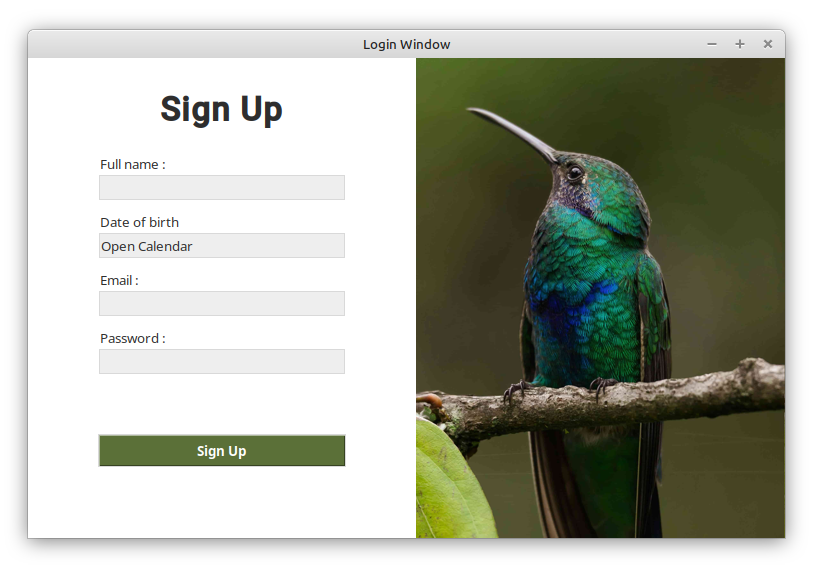
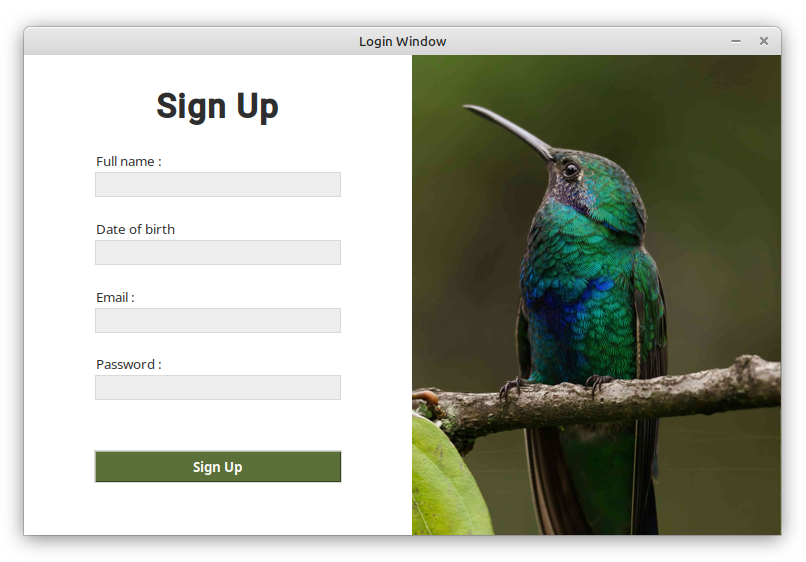
- Added a CSV file of user data for the registration system. - Updated the prev1.png image. - Added prev_vid.gif as an additional preview. - Slightly tidied up the code in the element.py, function.py, and main.py files.

diff --git a/sign_up_system/function.py b/sign_up_system/function.py
@@ -1,5 +1,6 @@
-import datetime as dt
 from tkinter import *
+import datetime as dt
+import csv
 from tkcalendar import Calendar
 from aset import Aset
 
@@ -108,19 +109,45 @@ class Main_Function:
             print("email have been filled in")
 
     # get user data
-    def get_user_data(self, fullname_entry, date_button, email_entry, password_entry):
+    def get_user_data(self, fullname_entry, date_button, email_entry, password_entry, root):
         if self.name_and_password_status == True and self.email_status == True and self.date_status == True:
             fullname_entry.delete(0, 'end')
             date_button.config(text="")
             email_entry.delete(0, 'end')
             password_entry.delete(0, 'end')
+            fullname_entry.focus()
 
             self.user_data['Full name'].append(self.user_fullname)
             self.user_data['Date of birth'].append(self.user_birthdate)
             self.user_data['Email'].append(self.user_email)
             self.user_data['Password'].append(self.user_password)
-
             print(self.user_data)
 
+            csv_file = "sign_up_system/user_data/user_data.csv"
+            with open(csv_file, 'w', newline='') as file:
+                writer = csv.writer(file)
+                # Write header
+                writer.writerow(self.user_data.keys())
+                # Write self.user_data
+                rows = zip(*self.user_data.values())
+                writer.writerows(rows)
+
+            thanks_window = Toplevel(root)
+            thanks_window.attributes('-topmost', bool(True))
+            thanks_window.title("Thank you for sign up")
+            thanks_window.geometry("320x145")
+            thanks_window.resizable(False, False)
+            thanks_window.configure(bg="#ffffff")
+
+            thanks_label = Label(thanks_window,
+                                text="Thank you\nfor sign up! :D",
+                                bg="#ffffff", fg="#2E2E2E",
+                                font=("roboto", 15, 'bold'))
+            thanks_label.pack(pady=20)
+
+            close_btn = Button(thanks_window,
+                            text="Close",
+                            command=lambda: thanks_window.destroy())
+            close_btn.pack(pady=(20,0), fill='x')
         else:
             return None

diff --git a/sign_up_system/element.py b/sign_up_system/element.py
@@ -90,7 +90,7 @@ class Main_Element:
 
     def email_warn(self):
         self.email_label = Label(self.frame.frame_entry,
-                          text="email not valid!",
+                          text="email address not valid!",
                           bg="#ffffff",
                           fg="#FFFFFF",
                           font=("system ui", 9),
@@ -123,7 +123,8 @@ class Main_Element:
                                             (self.main_func.get_email(self.email.typebar_e, self.email.title_e, self.email_label)),
                                             (self.main_func.get_birth_date(self.date_title)),
                                             (self.main_func.get_user_data(self.fullname.typebar_e, self.date_btn,
-                                                                          self.email.typebar_e, self.password.typebar_e))])
+                                                                          self.email.typebar_e, self.password.typebar_e,
+                                                                          self.login_win))])
         signup_btn.grid(row=10, column=0, pady=(50,0))
 
     # image label

diff --git a/sign_up_system/main.py b/sign_up_system/main.py
@@ -19,6 +19,7 @@ class Login_Window:
 
     def win_setup(self):
         self.login_win.geometry("757x480")
+        self.login_win.resizable(False, False)
         self.login_win.title("Login Window")
         self.login_win.configure(bg="#FFFFFF")
         

diff --git a/README.md b/README.md
@@ -4,3 +4,5 @@ Sign up system and UI created in Python, and processing login data using the Pan
 * Current screenshot preview of UI. I will continue to update the UI preview if there are any changes.
 
 <img src="prev_img/prev1.png">
+
+![prev_vid](prev_img/prev_vid.gif)
